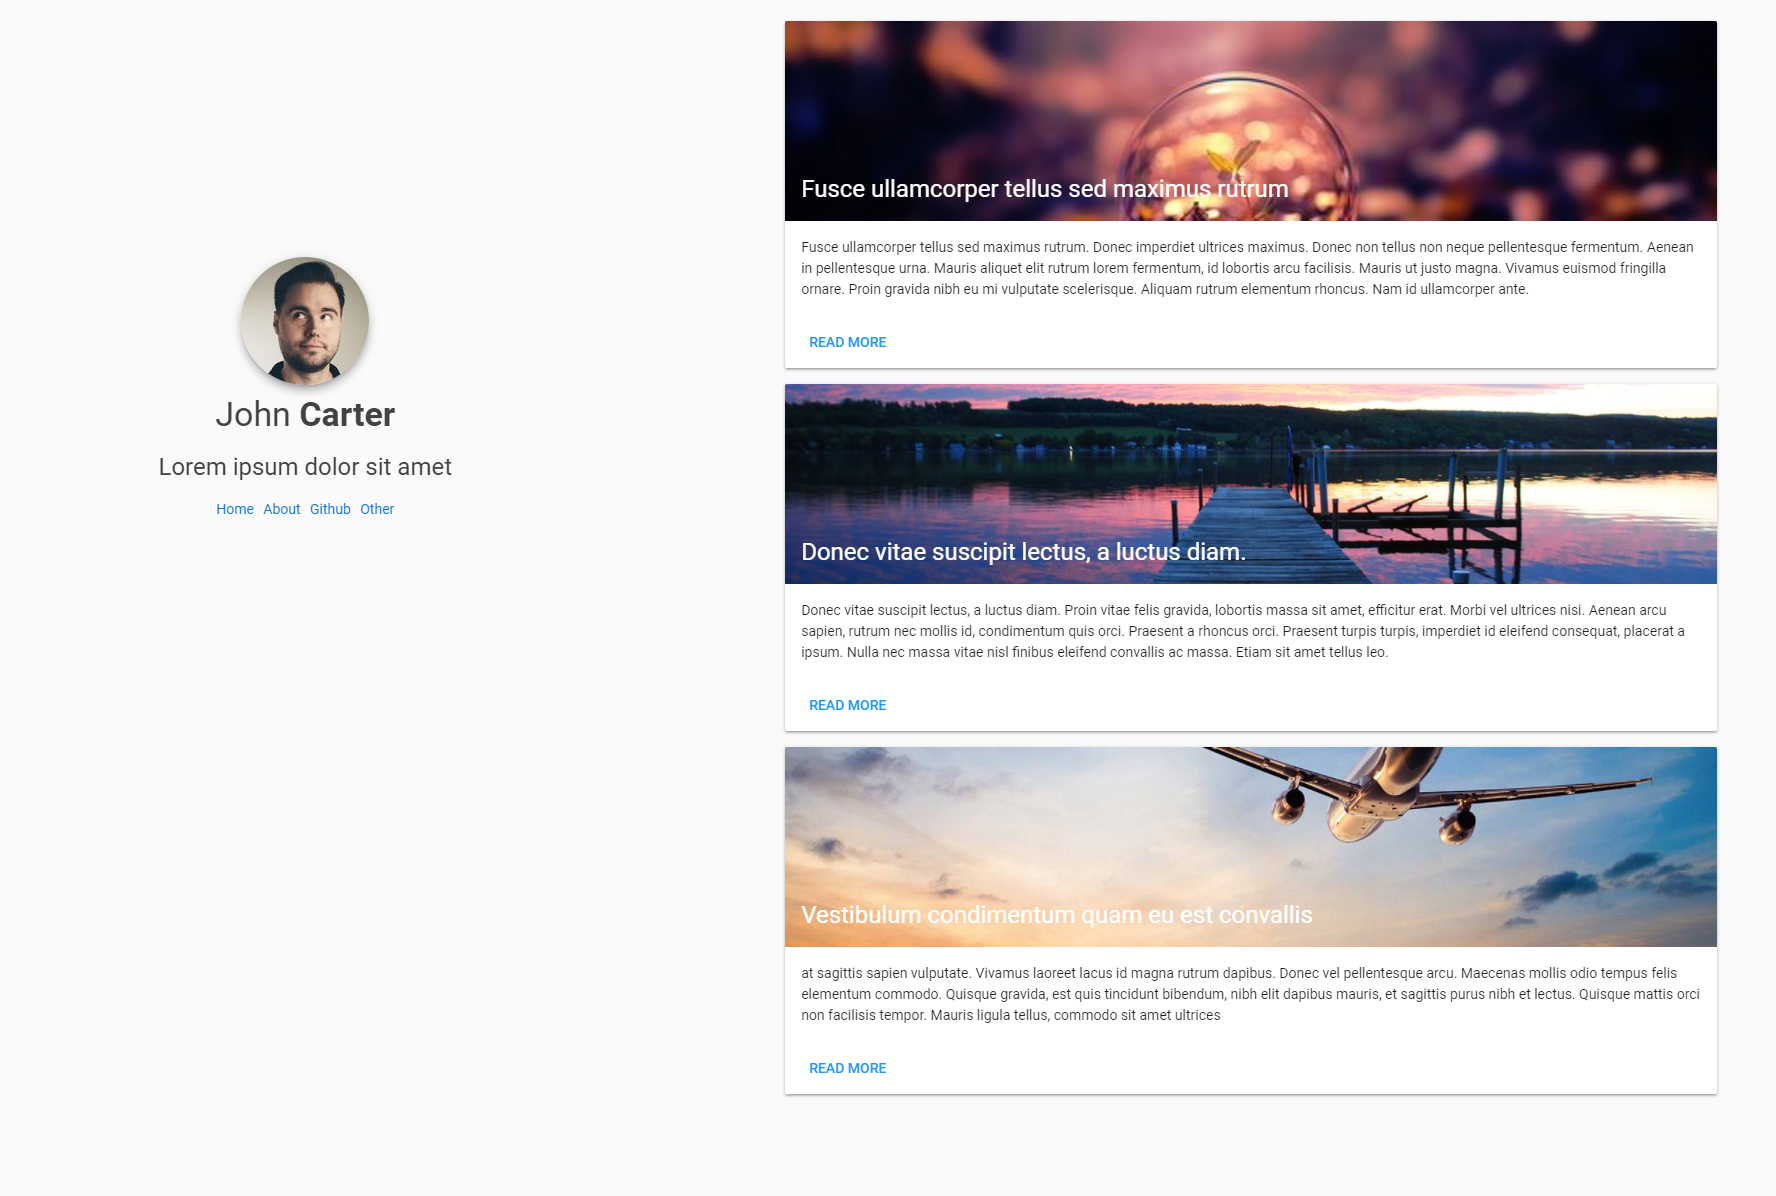
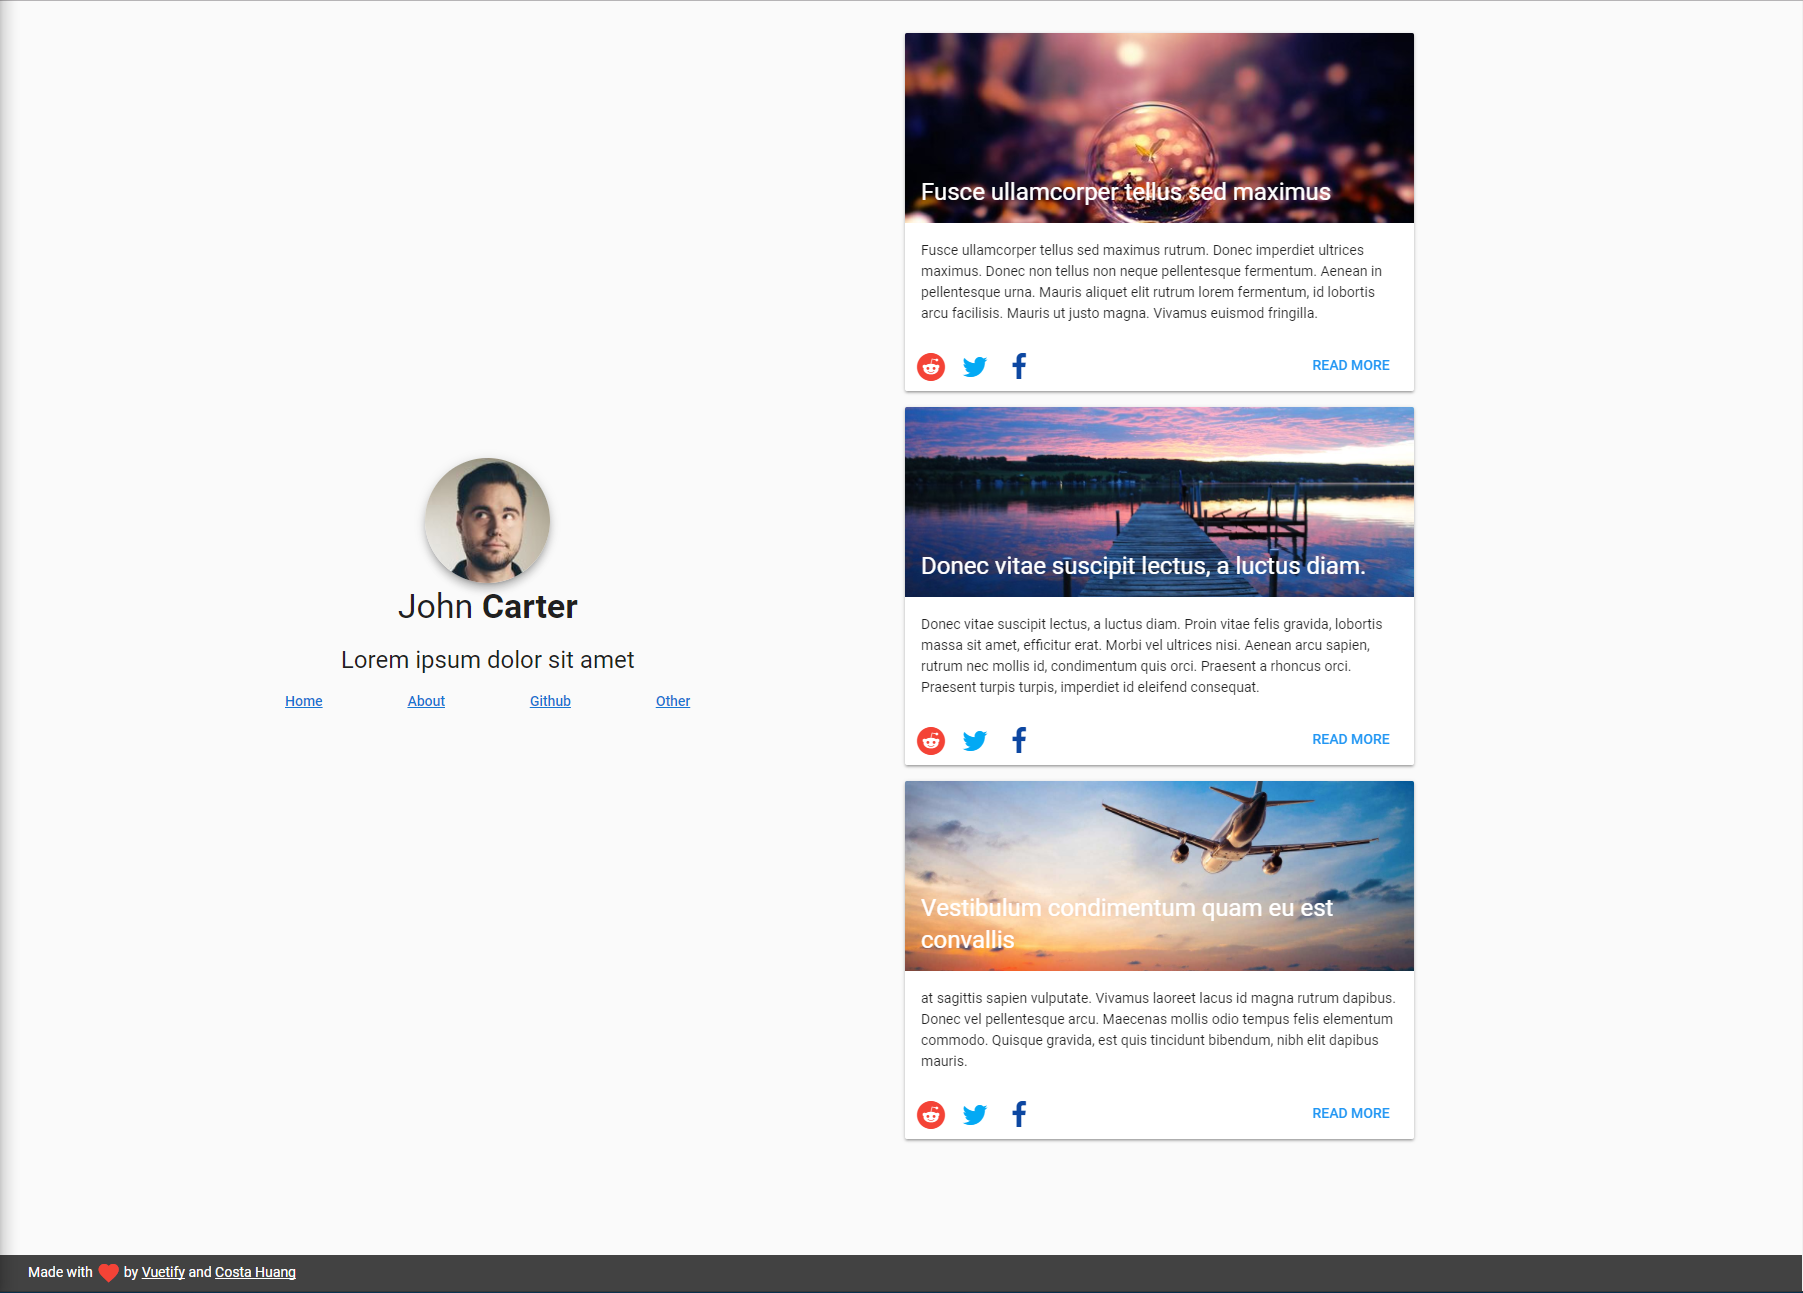
doc updates

diff --git a/templates/blog-starter/index.html b/templates/blog-starter/index.html
@@ -1,69 +1,89 @@
 <!DOCTYPE html>
 <html>
 <head>
- <link href='https://fonts.googleapis.com/css?family=Roboto:300,400,500,700|Material+Icons' rel="stylesheet">
- <link href="https://unpkg.com/vuetify/dist/vuetify.min.css" rel="stylesheet">
+  <title>Vuetify Blog Starter</title>
+  <link href='https://fonts.googleapis.com/css?family=Roboto:300,400,500,700|Material+Icons' rel="stylesheet">
+  <link href="https://unpkg.com/vuetify/dist/vuetify.min.css" rel="stylesheet">
 </head>
 <body>
  <div id="app">
-  <v-app light>
-    <v-navigation-drawer permanent mini-variant>
-      
-    </v-navigation-drawer>
+  <v-app light footer>
     <main>
       <v-container>
-        <v-layout row wrap>
+        <v-layout row wrap align-center>
           <v-flex xs12 md4>
-            <div class="profile-info text-xs-center">
-              <v-avatar>
+            <div class="text-xs-center">
+              <v-avatar size="125px">
                 <img
                   class="img-circle elevation-7 mb-1"
                   src="https://raw.githubusercontent.com/vuetifyjs/docs/dev/static/doc-images/lists/1.jpg"
-                  width="100px"
                 >
               </v-avatar>
               <h4>John <span style="font-weight:bold">Carter</span></h4>
               <h5 class="text-xs-center">Lorem ipsum dolor sit amet</h5>
-              <a>Home</a>
-              <a>About</a>
-              <a>Github</a>
-              <a>Other</a>
+              <v-layout justify-space-between>
+                <a href="javascript:;" class="body-2">Home</a>
+                <a href="javascript:;" class="body-2">About</a>
+                <a href="javascript:;" class="body-2">Github</a>
+                <a href="javascript:;" class="body-2">Other</a>
+              </v-layout>
             </div>
           </v-flex>
-          <v-flex xs12 md6>
-            <div class="research-list">
-              <div class="article-short" v-for="post in posts" :key="post.title">
-                <v-card class="my-3">
-                  <v-card-media
-                    class="white--text"
-                    height="200px"
-                    :src="post.imgUrl"
-                  >
-                    <v-container fill-height fluid>
-                      <v-layout fill-height>
-                        <v-flex xs12 align-end flexbox>
-                          <span class="headline">{{ post.title }}</span>
-                        </v-flex>
-                      </v-layout>
-                    </v-container>
-                  </v-card-media>
-                  <v-card-text>
-                    {{ post.content }}
-                  </v-card-text>
-                  <v-card-actions>
-                    <v-btn flat class="blue--text">Read More</v-btn>
-                  </v-card-actions>
-                </v-card>
-              </div>
+          <v-flex xs12 md5 offset-md2>
+            <div v-for="post in posts" :key="post.title">
+              <v-card class="my-3" hover>
+                <v-card-media
+                  class="white--text"
+                  height="190px"
+                  :src="post.imgUrl"
+                >
+                  <v-container fill-height fluid>
+                    <v-layout fill-height>
+                      <v-flex xs12 align-end flexbox>
+                        <span class="headline">{{ post.title }}</span>
+                      </v-flex>
+                    </v-layout>
+                  </v-container>
+                </v-card-media>
+                <v-card-text>
+                  {{ post.content }}
+                </v-card-text>
+                <v-card-actions>
+                  <v-btn icon class="red--text">
+                    <v-icon medium>fa-reddit</v-icon>
+                  </v-btn>
+                  <v-btn icon class="light-blue--text">
+                    <v-icon medium>fa-twitter</v-icon>
+                  </v-btn>
+                  <v-btn icon class="blue--text text--darken-4">
+                    <v-icon medium>fa-facebook</v-icon>
+                  </v-btn>
+                  <v-spacer></v-spacer>
+                  <v-btn flat class="blue--text">Read More</v-btn>
+                </v-card-actions>
+              </v-card>
             </div>
           </v-flex>
         </v-layout>
       </v-container>
     </main>
+    <v-footer class="secondary">
+      <v-layout row wrap align-center>
+        <v-flex xs12>
+          <div class="white--text ml-3">
+            Made with
+            <v-icon class="red--text">favorite</v-icon>
+            by <a class="white--text" href="https://vuetifyjs.com" target="_blank">Vuetify</a>
+            and <a class="white--text" href="mailto:costa.huang@outlook.com">Costa Huang</a>
+          </div>
+        </v-flex>
+      </v-layout>
+    </v-footer>
   </v-app>
  </div>
  <script src="https://unpkg.com/vue/dist/vue.js"></script>
  <script src="https://unpkg.com/vuetify/dist/vuetify.js"></script>
+ <script src="https://use.fontawesome.com/73c8e2621d.js"></script>
  <script>
    new Vue({
     el: '#app',
@@ -72,18 +92,18 @@
         title: 'Your Logo',
         posts: [
           {
-            title: 'Fusce ullamcorper tellus sed maximus rutrum',
-            content: 'Fusce ullamcorper tellus sed maximus rutrum. Donec imperdiet ultrices maximus. Donec non tellus non neque pellentesque fermentum. Aenean in pellentesque urna. Mauris aliquet elit rutrum lorem fermentum, id lobortis arcu facilisis. Mauris ut justo magna. Vivamus euismod fringilla ornare. Proin gravida nibh eu mi vulputate scelerisque. Aliquam rutrum elementum rhoncus. Nam id ullamcorper ante. ',
+            title: 'Fusce ullamcorper tellus sed maximus',
+            content: 'Fusce ullamcorper tellus sed maximus rutrum. Donec imperdiet ultrices maximus. Donec non tellus non neque pellentesque fermentum. Aenean in pellentesque urna. Mauris aliquet elit rutrum lorem fermentum, id lobortis arcu facilisis. Mauris ut justo magna. Vivamus euismod fringilla. ',
             imgUrl: 'https://raw.githubusercontent.com/vuetifyjs/docs/dev/static/doc-images/cards/drop.jpg'
           },
           {
             title: 'Donec vitae suscipit lectus, a luctus diam.',
-            content: 'Donec vitae suscipit lectus, a luctus diam. Proin vitae felis gravida, lobortis massa sit amet, efficitur erat. Morbi vel ultrices nisi. Aenean arcu sapien, rutrum nec mollis id, condimentum quis orci. Praesent a rhoncus orci. Praesent turpis turpis, imperdiet id eleifend consequat, placerat a ipsum. Nulla nec massa vitae nisl finibus eleifend convallis ac massa. Etiam sit amet tellus leo. ',
+            content: 'Donec vitae suscipit lectus, a luctus diam. Proin vitae felis gravida, lobortis massa sit amet, efficitur erat. Morbi vel ultrices nisi. Aenean arcu sapien, rutrum nec mollis id, condimentum quis orci. Praesent a rhoncus orci. Praesent turpis turpis, imperdiet id eleifend consequat. ',
             imgUrl: 'https://raw.githubusercontent.com/vuetifyjs/docs/dev/static/doc-images/cards/docks.jpg'
           },
           {
             title: 'Vestibulum condimentum quam eu est convallis',
-            content: ' at sagittis sapien vulputate. Vivamus laoreet lacus id magna rutrum dapibus. Donec vel pellentesque arcu. Maecenas mollis odio tempus felis elementum commodo. Quisque gravida, est quis tincidunt bibendum, nibh elit dapibus mauris, et sagittis purus nibh et lectus. Quisque mattis orci non facilisis tempor. Mauris ligula tellus, commodo sit amet ultrices ',
+            content: ' at sagittis sapien vulputate. Vivamus laoreet lacus id magna rutrum dapibus. Donec vel pellentesque arcu. Maecenas mollis odio tempus felis elementum commodo. Quisque gravida, est quis tincidunt bibendum, nibh elit dapibus mauris.',
             imgUrl: 'https://raw.githubusercontent.com/vuetifyjs/docs/dev/static/doc-images/cards/plane.jpg'
           }
         ]

diff --git a/examples/tabs/7.vue b/examples/tabs/7.vue
@@ -10,33 +10,33 @@
       <v-btn icon>
         <v-icon>more_vert</v-icon>
       </v-btn>
-    </v-toolbar>
-    <v-tabs-bar class="cyan">
-      <v-tabs-slider class="yellow"></v-tabs-slider>
-      <v-tabs-item
-        v-for="(item, i) in items"
-        :key="i"
-        :href="'#tab-' + (i + 1)"
-      >
-        {{ item }}
-      </v-tabs-item>
-      <v-menu :nudge-width="100" left bottom>
-        <v-tabs-item slot="activator">
-          Menu
-          <v-icon>arrow_drop_down</v-icon>
+      <v-tabs-bar class="cyan" slot="extension">
+        <v-tabs-slider class="yellow"></v-tabs-slider>
+        <v-tabs-item
+          v-for="(item, i) in items"
+          :key="i"
+          :href="'#tab-' + (i + 1)"
+        >
+          {{ item }}
         </v-tabs-item>
-        <v-list class="grey lighten-3">
-          <v-list-tile
-            tag="a"
-            v-for="n in 4"
-            :key="n"
-            @click=""
-          >
-            Item {{ n }}
-          </v-list-tile>
-        </v-list>
-      </v-menu>
-    </v-tabs-bar>
+        <v-menu :nudge-width="100" left bottom>
+          <v-tabs-item slot="activator">
+            Menu
+            <v-icon>arrow_drop_down</v-icon>
+          </v-tabs-item>
+          <v-list class="grey lighten-3">
+            <v-list-tile
+              tag="a"
+              v-for="n in 4"
+              :key="n"
+              @click=""
+            >
+              Item {{ n }}
+            </v-list-tile>
+          </v-list>
+        </v-menu>
+      </v-tabs-bar>
+    </v-toolbar>
     <v-tabs-items>
       <v-tabs-content
         v-for="i in 5"

diff --git a/pages/QuickStartView.vue b/pages/QuickStartView.vue
@@ -152,7 +152,7 @@
                 v-icon(dark).primary fa-{{ browser.icon }}
               v-list-tile-content
                 v-list-tile-title {{ browser.title }}
-                v-list-tile-sub-title {{ browser.supported ? 'Supported' : 'Not supported' }}
+                v-list-tile-sub-title {{ browser.supported }}
               v-list-tile-action
                 v-icon(v-if="!browser.supported").error--text clear
                 v-icon(v-else).success--text check
@@ -188,12 +188,12 @@
     data () {
       return {
         browsers: [
-          { icon: 'internet-explorer', title: 'IE9 / IE10', supported: false },
-          { icon: 'internet-explorer', title: 'IE11', supported: true },
-          { icon: 'edge', title: 'Edge', supported: true },
-          { icon: 'chrome', title: 'Chrome', supported: true },
-          { icon: 'firefox', title: 'Firefox', supported: true },
-          { icon: 'safari', title: 'Safari 9+', supported: true },
+          { icon: 'internet-explorer', title: 'IE9 / IE10', supported: 'Not Supported' },
+          { icon: 'internet-explorer', title: 'IE11', supported: 'Supported w/ polyfill' },
+          { icon: 'edge', title: 'Edge', supported: 'Supported' },
+          { icon: 'chrome', title: 'Chrome', supported: 'Supported' },
+          { icon: 'firefox', title: 'Firefox', supported: 'Supported' },
+          { icon: 'safari', title: 'Safari 9+', supported: 'Supported' },
         ]
       }
     }

diff --git a/examples/tabs/6.vue b/examples/tabs/6.vue
@@ -10,19 +10,19 @@
       <v-btn icon>
         <v-icon>more_vert</v-icon>
       </v-btn>
+      <v-tabs-bar class="grey lighten-4" slot="extension">
+        <v-tabs-slider class="primary"></v-tabs-slider>
+        <v-tabs-item href="#mobile-tabs-5-1" class="primary--text">
+          <v-icon>phone</v-icon>
+        </v-tabs-item>
+        <v-tabs-item href="#mobile-tabs-5-2" class="primary--text">
+          <v-icon>favorite</v-icon>
+        </v-tabs-item>
+        <v-tabs-item href="#mobile-tabs-5-3" class="primary--text">
+          <v-icon>account_box</v-icon>
+        </v-tabs-item>
+      </v-tabs-bar>
     </v-toolbar>
-    <v-tabs-bar class="grey lighten-4">
-      <v-tabs-slider class="primary"></v-tabs-slider>
-      <v-tabs-item href="#mobile-tabs-5-1" class="primary--text">
-        <v-icon>phone</v-icon>
-      </v-tabs-item>
-      <v-tabs-item href="#mobile-tabs-5-2" class="primary--text">
-        <v-icon>favorite</v-icon>
-      </v-tabs-item>
-      <v-tabs-item href="#mobile-tabs-5-3" class="primary--text">
-        <v-icon>account_box</v-icon>
-      </v-tabs-item>
-    </v-tabs-bar>
     <v-tabs-items>
       <v-tabs-content
         v-for="i in 3"

diff --git a/components/MainNavigation.vue b/components/MainNavigation.vue
@@ -10,7 +10,7 @@
         v-list-tile(avatar tag="div")
           v-list-tile-avatar
             router-link(to="/")
-              img(src="/static/v.png" v-bind:style="filter")
+              img(src="/static/doc-images/logo.svg" v-bind:style="filter")
           v-list-tile-content
             v-list-tile-title Vuetify
             v-list-tile-sub-title
@@ -188,7 +188,7 @@
               { href: '/components/snackbars', title: 'Snackbars & toasts' },
               { href: '/components/steppers', title: 'Steppers' },
               { href: '/components/subheaders', title: 'Subheaders' },
-              { href: '/components/tabs', title: 'Tabs' },
+              { href: '/components/tabs', title: 'Tabs', action: 'file_upload' },
               { href: '/components/text-fields', title: 'Text fields', action: 'file_upload' },
               { href: '/components/toolbars', title: 'Toolbars' }
             ]
@@ -207,7 +207,7 @@
             ]
           },
           {
-            title: 'Pre-made Themes',
+            title: 'Pre-made themes',
             action: 'color_lens',
             href: '/pre-made-themes',
             subAction: 'fiber_new'

diff --git a/examples/tabs/4.vue b/examples/tabs/4.vue
@@ -7,17 +7,17 @@
         append-icon="keyboard_voice"
         prepend-icon="search"
       ></v-text-field>
+      <v-tabs-bar class="cyan" slot="extension">
+        <v-tabs-slider class="yellow"></v-tabs-slider>
+        <v-tabs-item
+          v-for="i in 3"
+          :key="i"
+          :href="'#tab-' + i"
+        >
+          Item {{ i }}
+        </v-tabs-item>
+      </v-tabs-bar>
     </v-toolbar>
-    <v-tabs-bar class="cyan">
-      <v-tabs-slider class="yellow"></v-tabs-slider>
-      <v-tabs-item
-        v-for="i in 3"
-        :key="i"
-        :href="'#tab-' + i"
-      >
-        Item {{ i }}
-      </v-tabs-item>
-    </v-tabs-bar>
     <v-tabs-items>
       <v-tabs-content
         v-for="i in 3"

diff --git a/components/ComponentExample.vue b/components/ComponentExample.vue
@@ -2,7 +2,7 @@
   div.component-example
     codepen(ref="codepen" :pen="pen")
     v-card
-      v-toolbar(v-bind:class="[currentColor]" flat dense)
+      v-toolbar(v-bind:class="[currentColor]" flat dense dark)
         span.title.white--text(v-text="header")
         v-spacer
         v-btn(

diff --git a/templates/parallax-starter/index.html b/templates/parallax-starter/index.html
@@ -1,6 +1,7 @@
 <!DOCTYPE html>
 <html>
 <head>
+  <title>Vuetify Parallax Starter</title>
   <link href='https://fonts.googleapis.com/css?family=Roboto:300,400,500,700|Material+Icons' rel="stylesheet">
   <link href="https://unpkg.com/vuetify/dist/vuetify.min.css" rel="stylesheet">
 </head>
